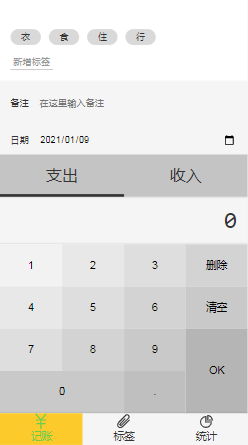
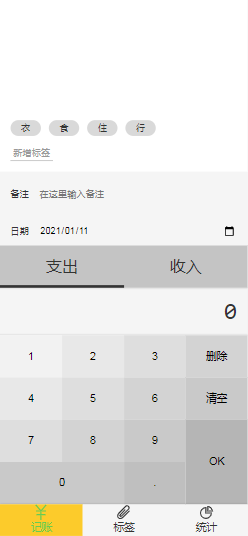
修改

diff --git a/index.html b/index.html
@@ -153,7 +153,7 @@
                 <div class="item">
                     <h3>github 排行榜</h3>
                     <ul>
-                        <li>▶ 这是github的排行版，可以实时查看框架的排行以及开发者的排名，第三页有搜索功能，可搜索查看。
+                        <li>▶ 这是github的排行版，可以查看框架的排行以及开发者的排名，第三页有搜索功能，可搜索查看。
                         </li>
                         <li>▶ 使用jQuery开发。</li>
                         <li>▶ 项目源码: <a href="https://github.com/hkl1223/github-rank">点击查看</a></li>
@@ -170,7 +170,7 @@
                     <h3>橘子汁音乐</h3>
                     <ul>
                         <li>
-                            ▶ 这是一款简单的音乐播放器，包含普通音乐基本的功能，可以随着音乐的切换随机切换背景图片以及音乐的基本信息，包含歌名、歌手、时长等。
+                            ▶ 这是一款简单的音乐播放器，可以随着音乐的播放切换背景图片、歌名、歌手、时长等。
                         </li>
                         <li>▶ 音乐播放接口是自己写的JSON文件，歌曲信息也是以文件的方式获取的。</li>
                         <li>▶ 项目源码: <a href="https://github.com/hkl1223/music">点击查看</a></li>

diff --git a/index.css b/index.css
@@ -107,6 +107,13 @@ main {
   min-height: calc(100vh - 162px);
 }
 
+@media (max-width: 400px) {
+  .effect {
+    height: 150px;
+    margin-top: 10px;
+    margin-right: 7px;
+  }
+}
 @media (max-width: 768px) {
   header {
     padding-top: 20px;
@@ -121,6 +128,8 @@ main {
     height: 100px;
   }
 }
+
+
 
 .blog .iconfont {
   font-size: 20px;
@@ -158,7 +167,7 @@ main {
   position: absolute;
   right: 390px;
 }
-.effect{
+.effect {
   height: 150px;
   margin-top: 10px;
   margin-right: 50px;
